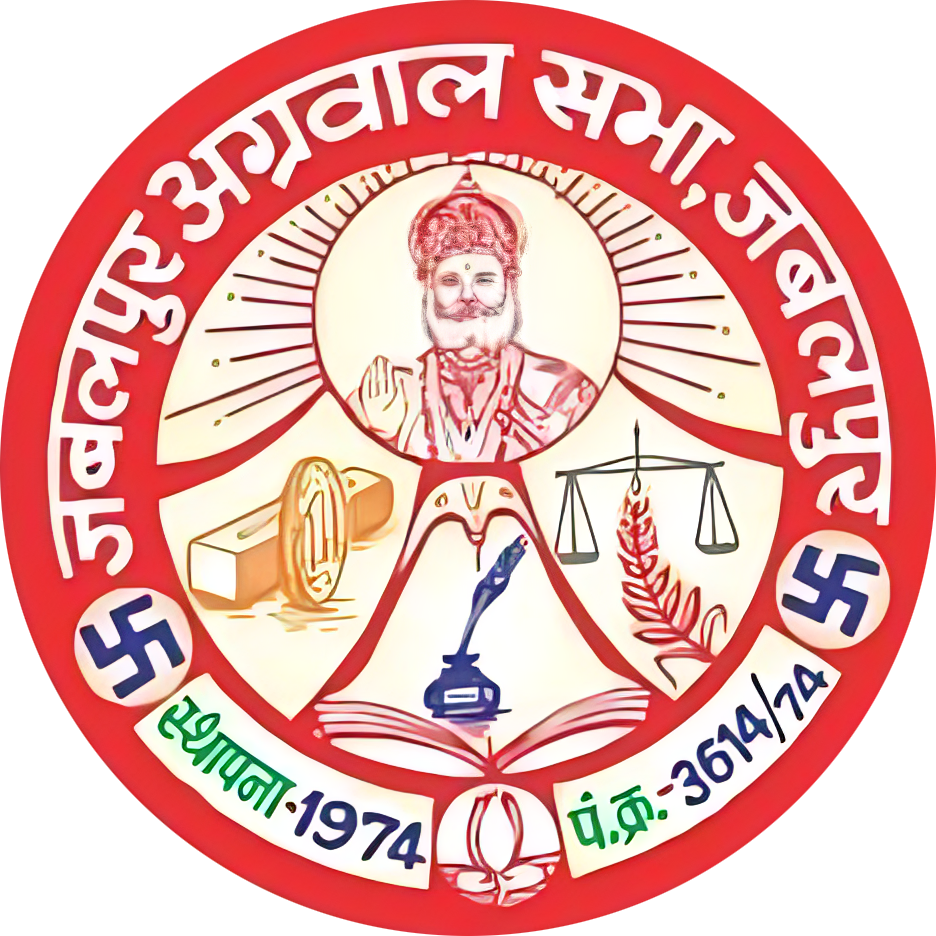
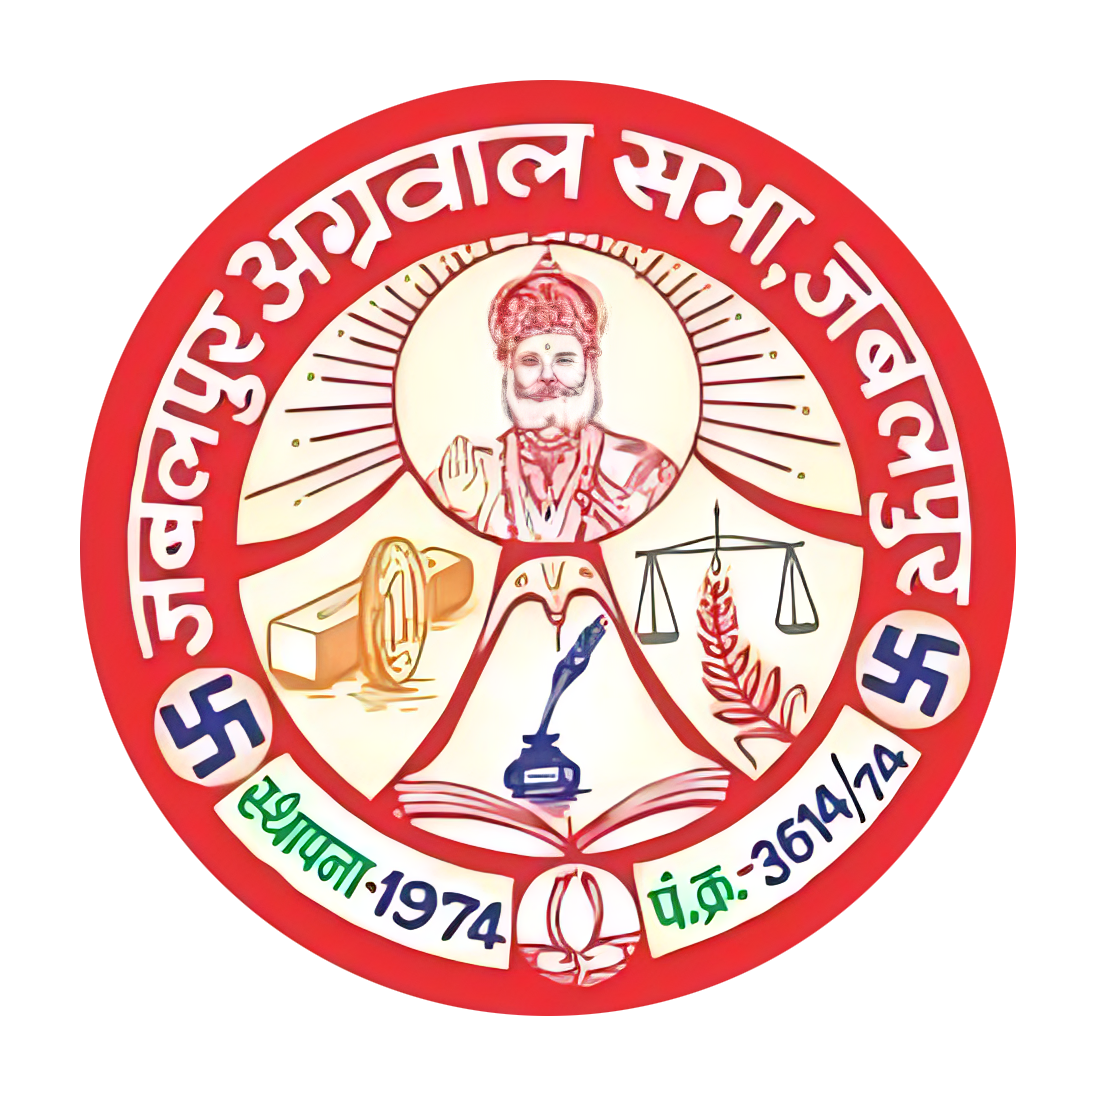
reesolved the metromonial and orther errors whit image adgestmsnt

diff --git a/src/config/supabase.js b/src/config/supabase.js
@@ -231,7 +231,7 @@ export const dbHelpers = {
     try {
       let query = supabase
         .from('matrimonial_profiles')
-        .select('*, users(*)')
+        .select('*, users!matrimonial_profiles_user_id_fkey(*)')
         .eq('status', 'approved');
 
       if (filters.gender) query = query.eq('gender', filters.gender);
@@ -263,7 +263,7 @@ export const dbHelpers = {
     try {
       let query = supabase
         .from('events')
-        .select('*, users(*)')
+        .select('*, users!events_posted_by_fkey(*)')
         .eq('status', 'approved')
         .eq('is_visible', true);
 
@@ -298,7 +298,7 @@ export const dbHelpers = {
     try {
       const { data, error } = await supabase
         .from('jobs')
-        .select('*, users(*)')
+        .select('*, users!jobs_posted_by_fkey(*)')
         .eq('status', 'approved')
         .order('created_at', { ascending: false });
       return { data, error };
@@ -325,7 +325,7 @@ export const dbHelpers = {
     try {
       let query = supabase
         .from('blood_donors')
-        .select('*, users(*)')
+        .select('*, users!blood_donors_user_id_fkey(*)')
         .eq('is_available', true);
 
       if (bloodGroup) query = query.eq('blood_group', bloodGroup);
@@ -382,7 +382,7 @@ export const dbHelpers = {
     try {
       const { data, error } = await supabase
         .from('post_holders')
-        .select('*, users(*)')
+        .select('*, users!post_holders_user_id_fkey(*)')
         .order('display_order', { ascending: true });
       return { data, error };
     } catch (error) {

diff --git a/src/screens/Home/HomeScreen.js b/src/screens/Home/HomeScreen.js
@@ -212,9 +212,9 @@ const HomeScreen = ({ navigation }) => {
               <Card style={[styles.quoteCard, { alignItems: 'center' }]} variant="elevated">
               <Image
                 source={agrasenImg}
-                style={[styles.quoteImage, { width: 150, height: 150, marginBottom:-30 }]}
+                style={[styles.quoteImage, { width: 350, height: 350, marginBottom:-60 }]}
               />
-              <Text style={[styles.quoteTitle, { fontSize: 20, textAlign: 'center', marginBottom:30 }]}>Maharaj Agrasen</Text>
+              <Text style={[styles.quoteTitle, { fontSize: 20, textAlign: 'center', marginBottom:20 }]}>Maharaj Agrasen</Text>
               <Text style={[styles.quoteText, { fontSize: 18, textAlign: 'center' }]}>
                 "एक ईंट, एक रुपया"
               </Text>
